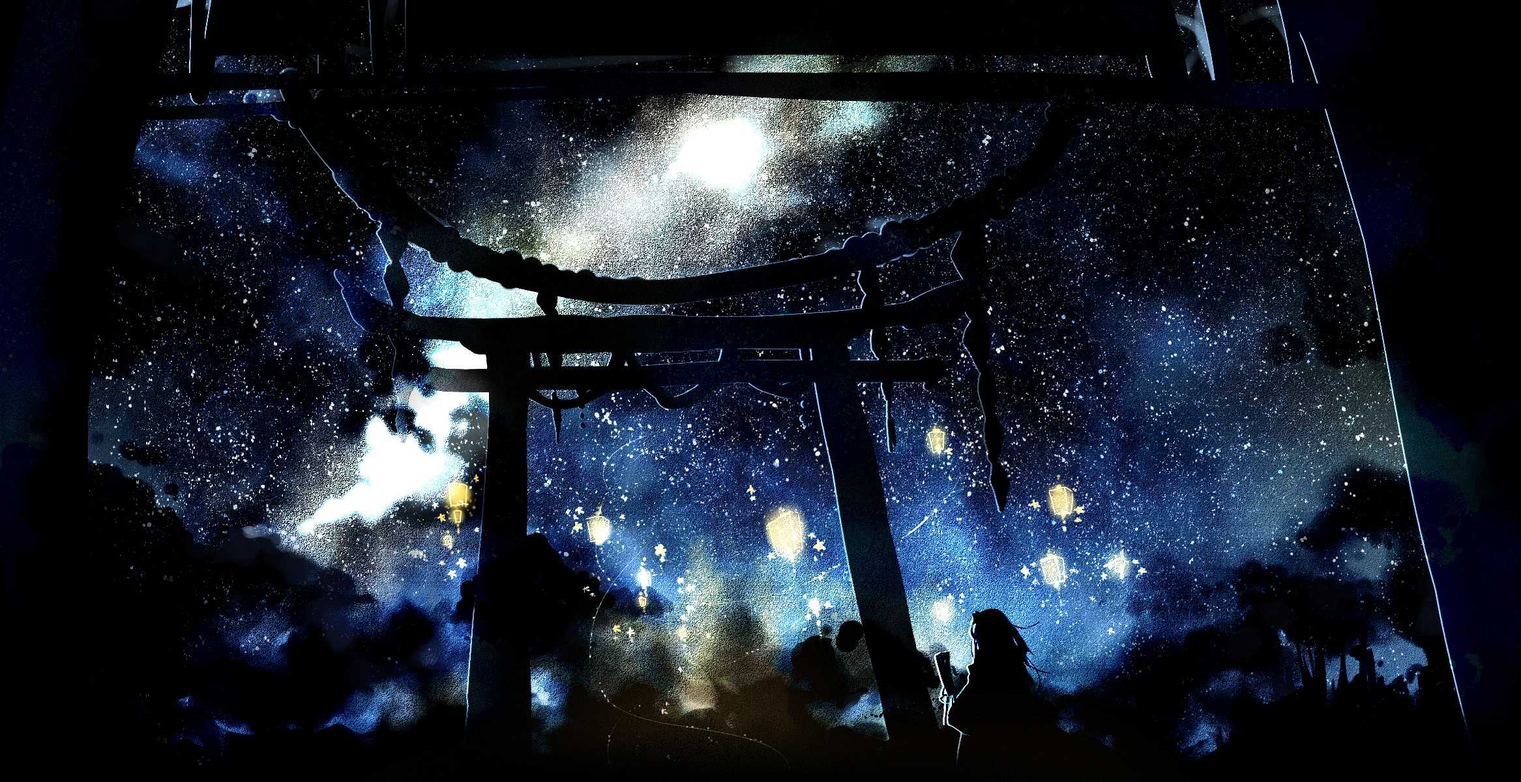
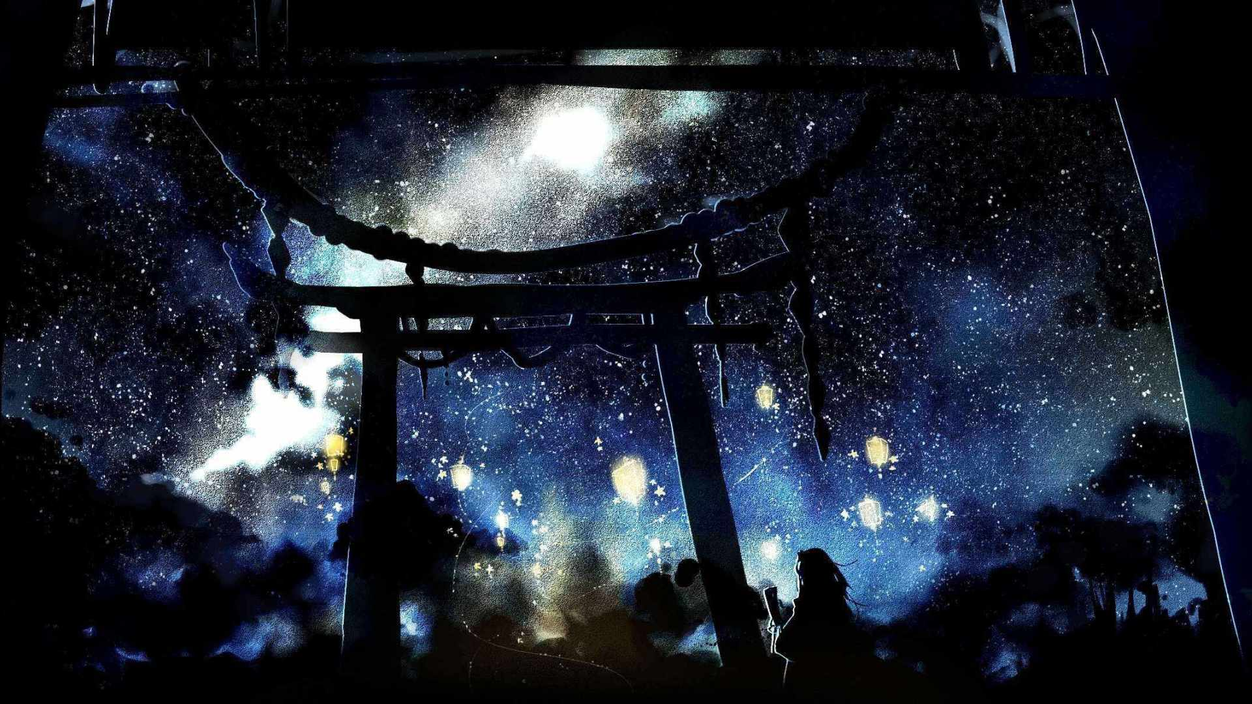
[Various] Reduce bg size on mobile, fix back links

diff --git a/css/faq.css b/css/faq.css
@@ -90,7 +90,11 @@ ol {
     overflow: hidden;
     width: 50%;
 }
-#back, #files_mb {
+#back {
+    float: left;
+    margin-top: 2px;
+}
+#files_mb {
     float: left;
 }
 #files_jp {

diff --git a/css/royalflare.css b/css/royalflare.css
@@ -160,6 +160,7 @@ a.scene {
 }
 #back {
     float: left;
+    margin-top: 2px;
 }
 #hy_text {
     margin: 4px 0px 0px 0px;

diff --git a/css/thvote.css b/css/thvote.css
@@ -226,6 +226,7 @@ table {
 }
 #back {
     float: left;
+    margin-top: 2px;
 }
 #contents_extra {
     text-align: left;

diff --git a/css/slots_mobile.css b/css/slots_mobile.css
@@ -1,3 +1,6 @@
+body {
+    background: #0a2747;
+}
 #modal {
     padding-top: 10%;
 }

diff --git a/php/royalflare.php b/php/royalflare.php
@@ -286,12 +286,12 @@ $diffs = Array('Easy', 'Normal', 'Hard', 'Lunatic', 'Extra', 'Phantasm');
             if (strpos($subpage, '/') !== false) {
                 $tmp = preg_split('/\//', $subpage);
                 if (($tmp[0] == 'history' || $tmp[0] == 'standings') && !empty(game_to_abbr($tmp[1]))) {
-                    echo '<span id="back"><a href="/royalflare/' . $tmp[1] . '">&lt;= ' . $tmp[1] . 'に帰る - Back to ' . $tmp[1] . '</a></span>';
+                    echo '<p id="back"><a href="/royalflare/' . $tmp[1] . '">&lt;= ' . $tmp[1] . 'に帰る - Back to ' . $tmp[1] . '</a></p>';
                 } else {
-                    echo '<span id="back"><a href="/royalflare">&lt;= メインページに帰る - Back to Main Page</a></span>';
+                    echo '<p id="back"><a href="/royalflare">&lt;= メインページに帰る - Back to Main Page</a></p>';
                 }
             } else {
-                echo '<span id="back"><a href="/royalflare">&lt;= メインページに帰る - Back to Main Page</a></span>';
+                echo '<p id="back"><a href="/royalflare">&lt;= メインページに帰る - Back to Main Page</a></p>';
             }
         }
     ?>

diff --git a/index.php b/index.php
@@ -127,7 +127,7 @@
         <main><?php if ($page == 'error') { include_once 'php/error.php'; } else { include_once $page_path; } ?></main>
         <?php
             // Deferred page background
-            if (!$is_mobile || $page != 'tiers') {
+            if (!$is_mobile || $page != 'slots' && $page != 'thvote' && $page != 'tiers') {
                 echo '<script nonce="' . file_get_contents('.stats/nonce') . '">document.body.style.background="url(\'' . ($page == 'error' ? 'https://maribelhearn.com/' : '/') . 'assets/' . $dir . '/' . $css_js_file . '/' . $css_js_file . '.jpg\') ';
                 echo $bg_pos . ' no-repeat fixed";document.body.style.backgroundSize="cover"</script>';
                 echo '<noscript><link rel="stylesheet" href="/assets/shared/noscript_bg.php?page=' . $css_js_file . '&pos=' . $bg_pos . '"></noscript>';

diff --git a/php/faq.php b/php/faq.php
@@ -2,7 +2,7 @@
     <?php
         echo wrap_top();
         if (!empty($subpage) || !empty($_GET['p'])) {
-            echo '<span id="back"><a href="/faq">&lt;= Back to Main Page</a></span>';
+            echo '<p id="back"><a href="/faq">&lt;= Back to Main Page</a></p>';
         }
         echo '<h1>Frequently Asked Questions</h1>';
         if (!empty($_GET['redirect'])) {

diff --git a/php/thvote.php b/php/thvote.php
@@ -6,7 +6,7 @@
             if (strpos($subpage, '/') !== false) {
                 $tmp = preg_split('/\//', $subpage);
             }
-            echo '<span id="back"><a href="/thvote">&lt;= Back to Main Page</a></span>';
+            echo '<p id="back"><a href="/thvote">&lt;= Back to Main Page</a></p>';
         } else {
             $subpage = '';
         }
